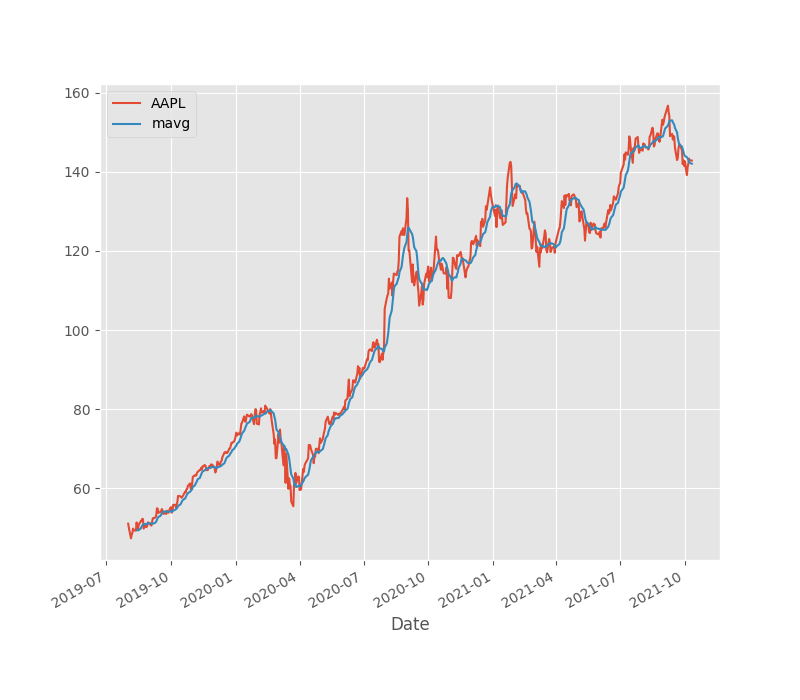
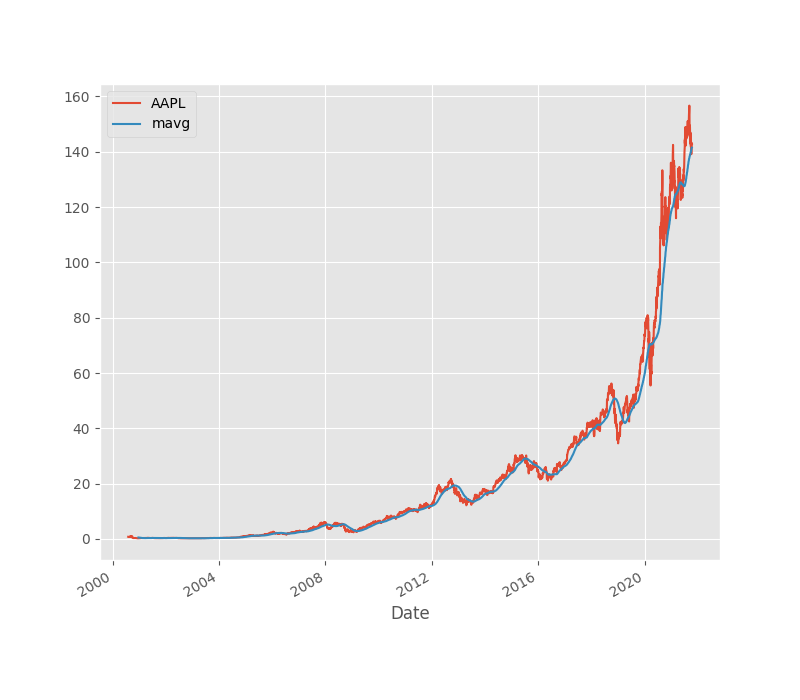
added a way to plot the returns

diff --git a/PandasStockPredictor.py b/PandasStockPredictor.py
@@ -2,10 +2,11 @@ import datetime
 import pandas_datareader.data as web
 import os
 import PlottingOnGraph
+import PlotReturnsGraph
 
 
 def get_stock_data():
-    start_date = datetime.datetime(2019, 8, 1)
+    start_date = datetime.datetime(2000, 8, 1)
     end_date = datetime.datetime(2021, 10, 11)
     
     df = web.DataReader("AAPL", 'yahoo', start_date, end_date)
@@ -14,14 +15,12 @@ def get_stock_data():
     df.tail()
 
     close_px = df['Adj Close']
-    rolling_mean = close_px.rolling(window=10).mean()
-    print("df: ###########################################")
-    print(df)
-    print("rolling: ########################################")
+    rolling_mean = close_px.rolling(window=100).mean()
     # rolling_mean.to_json(filepath+'/rolling_data.json')
-    print(rolling_mean.tail())
 
     PlottingOnGraph.plot_rolling_average(close_px, rolling_mean)
+    rets = close_px / close_px.shift(1) - 1
+    PlotReturnsGraph.plot_returns(rets)
 
 
 def print_rolling_mean_last_100_windows():

diff --git a/PlottingOnGraph.py b/PlottingOnGraph.py
@@ -4,6 +4,9 @@ import matplotlib as mpl
 import os
 
 
+filepath = os.getcwd()
+
+
 def plot_rolling_average(close_px, moving_average):
     mpl.rc('figure', figsize=(8, 7))
     mpl.__version__
@@ -13,5 +16,4 @@ def plot_rolling_average(close_px, moving_average):
     close_px.plot(label='AAPL')
     moving_average.plot(label='mavg')
     plt.legend()
-    filepath = os.getcwd()
     plt.savefig(filepath + '/rolling_graph.png')

diff --git a/PlotReturnsGraph.py b/PlotReturnsGraph.py
@@ -1,0 +1,11 @@
+import matplotlib.pyplot as plt
+import os
+
+
+filepath = os.getcwd()
+
+
+def plot_returns(return_value):
+    plt.figure()
+    plt.plot(return_value)
+    plt.savefig(filepath + '/returns_graph.png')
